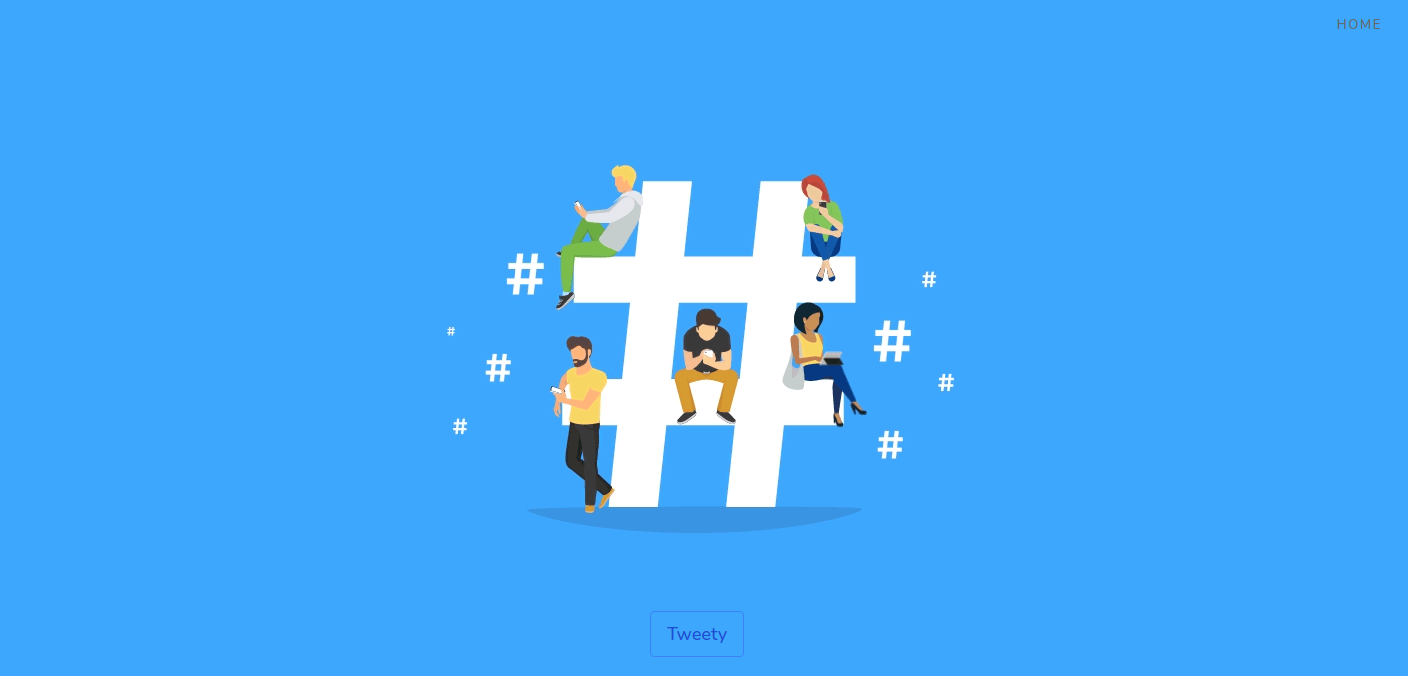
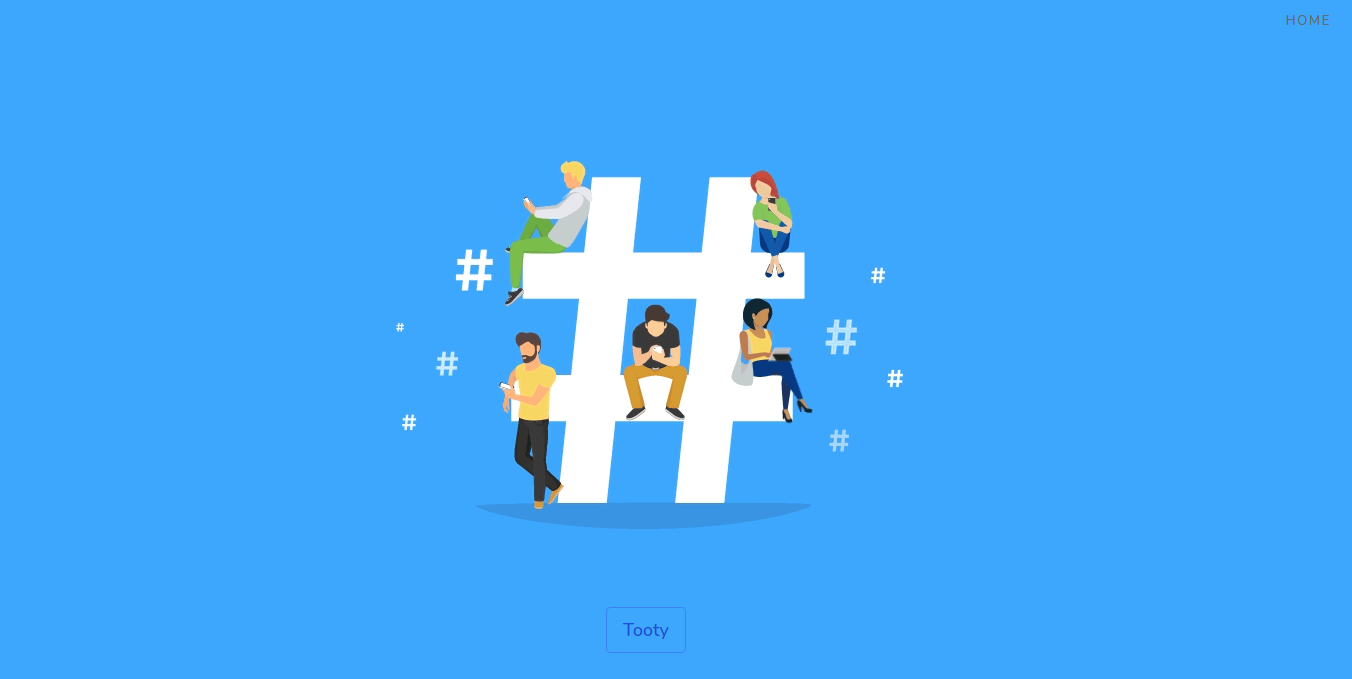
twitter9.3

diff --git a/resources/views/welcome.blade.php b/resources/views/welcome.blade.php
@@ -91,7 +91,7 @@
                  <img src="sm.gif" alt="">   
 
                 <button class="py-2 px-4 text-lg bg-transparent hover:bg-blue-500 text-blue-700 font-semibold hover:text-white py-2 px-4 border border-blue-500 hover:border-transparent rounded">
-                    Tweety
+                    Tooty
                 </button>
 
             </div>
